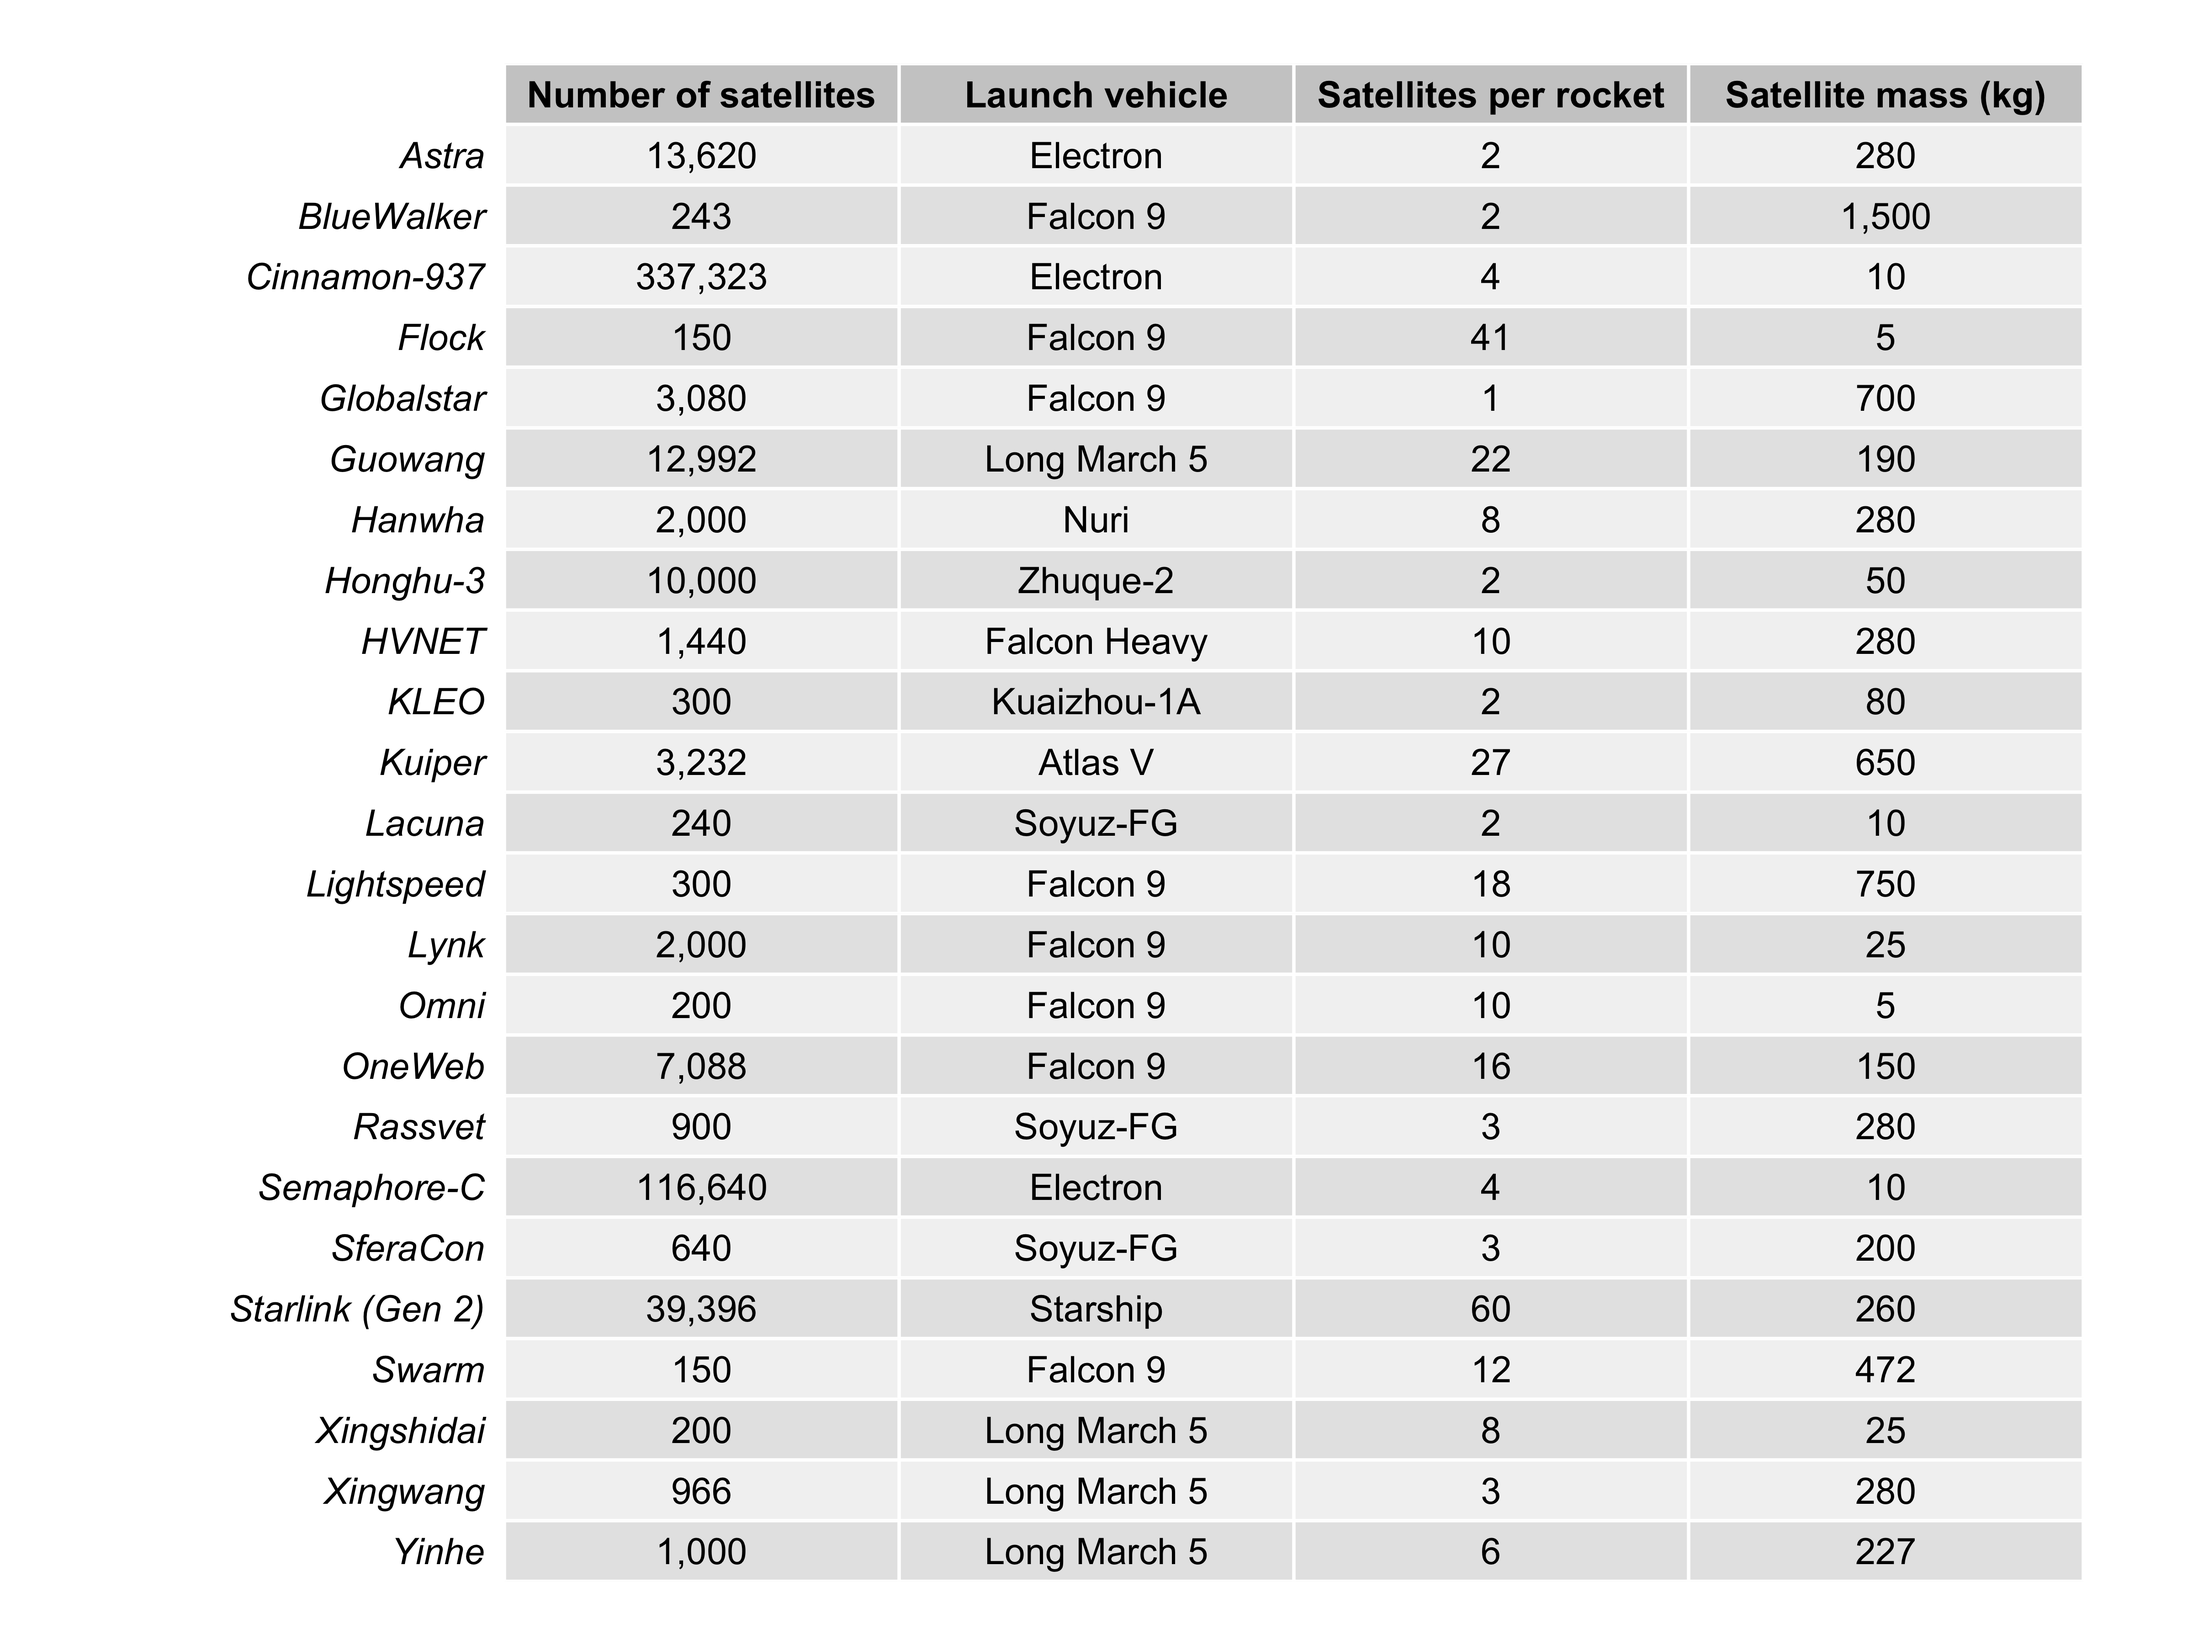
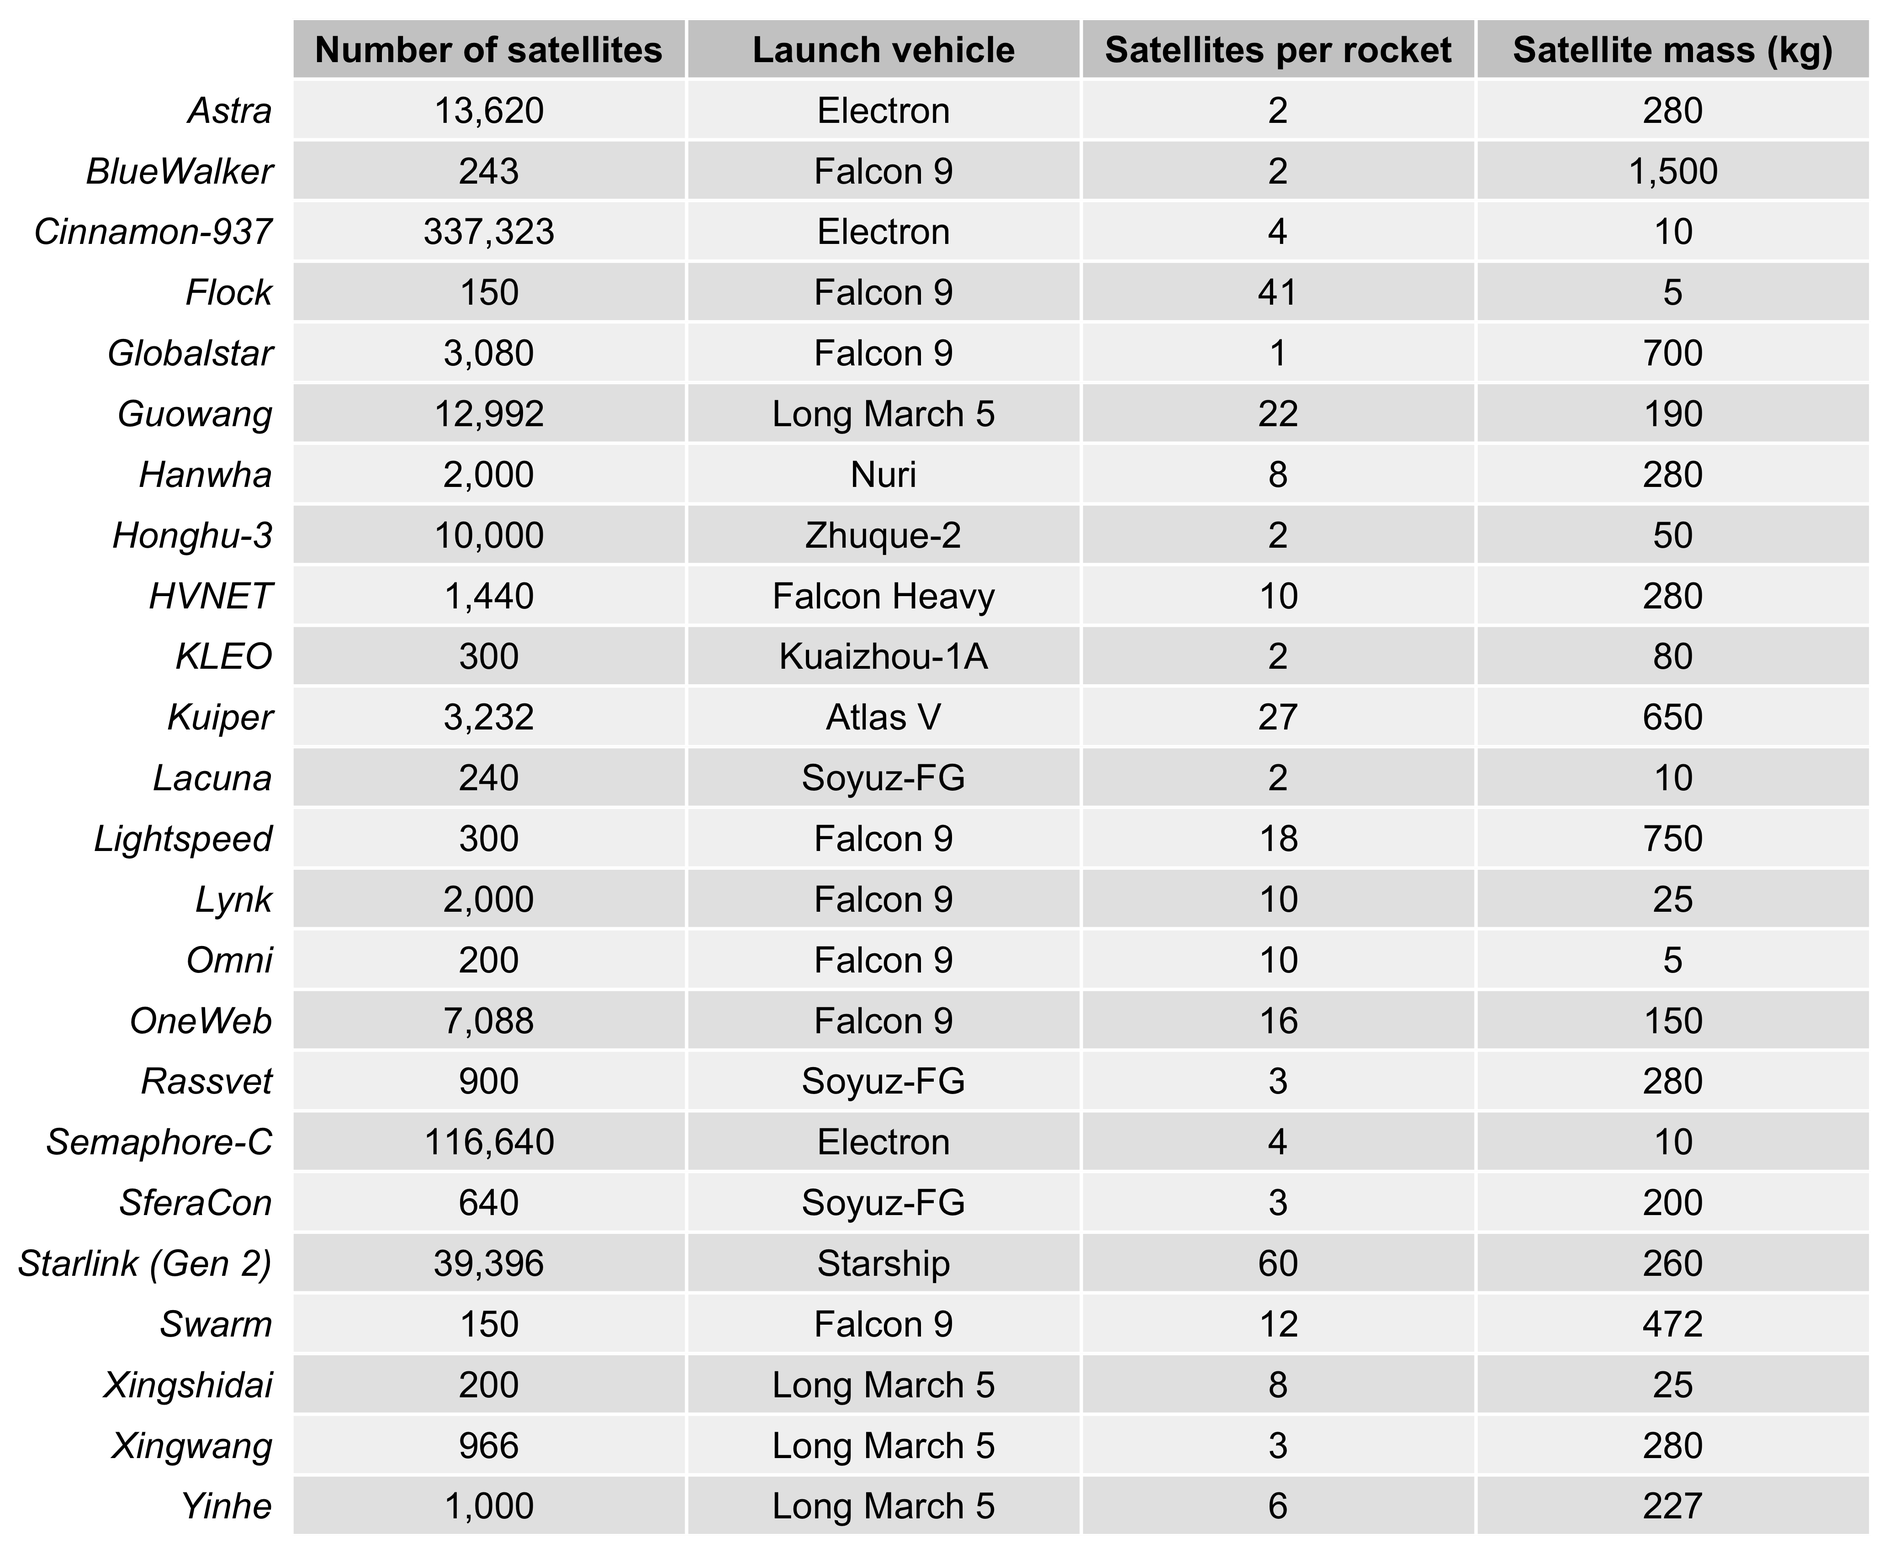
Crop parameter tables; cite Zenodo concept DOI
- Trim the white border from the constellation and rocket parameter table
  PNGs so only the table remains (done in the R scripts).
- Open Research: link the Zenodo concept DOI 10.5281/zenodo.18285046 and
  drop the kukreja_oracle_software citation.

diff --git a/sn-article.tex b/sn-article.tex
@@ -505,7 +505,7 @@ International collaboration and policy development will further play a vital rol
 In conclusion, this study highlights the need to integrate environmental sustainability into the design, development, and deployment of satellite megaconstellations. By addressing key areas such as reusability, emissions efficiency, and innovative technologies, the space industry can balance technological progress with environmental stewardship, paving the way for a sustainable future in satellite deployment and space exploration.
 
 \section{Open Research}\label{sec8}
-All data and code used in this study are openly available on https://github.com/rushilkukreja/oracle/ and https://zenodo.org/records/18285047 \citep{kukreja_oracle_software}.
+All data and code used in this study are openly available on https://github.com/rushilkukreja/oracle/ and https://doi.org/10.5281/zenodo.18285046.
 
 \section{Conflict of Interest  Statement}\label{sec9}
 The authors have no conflicts of interest to disclose.
